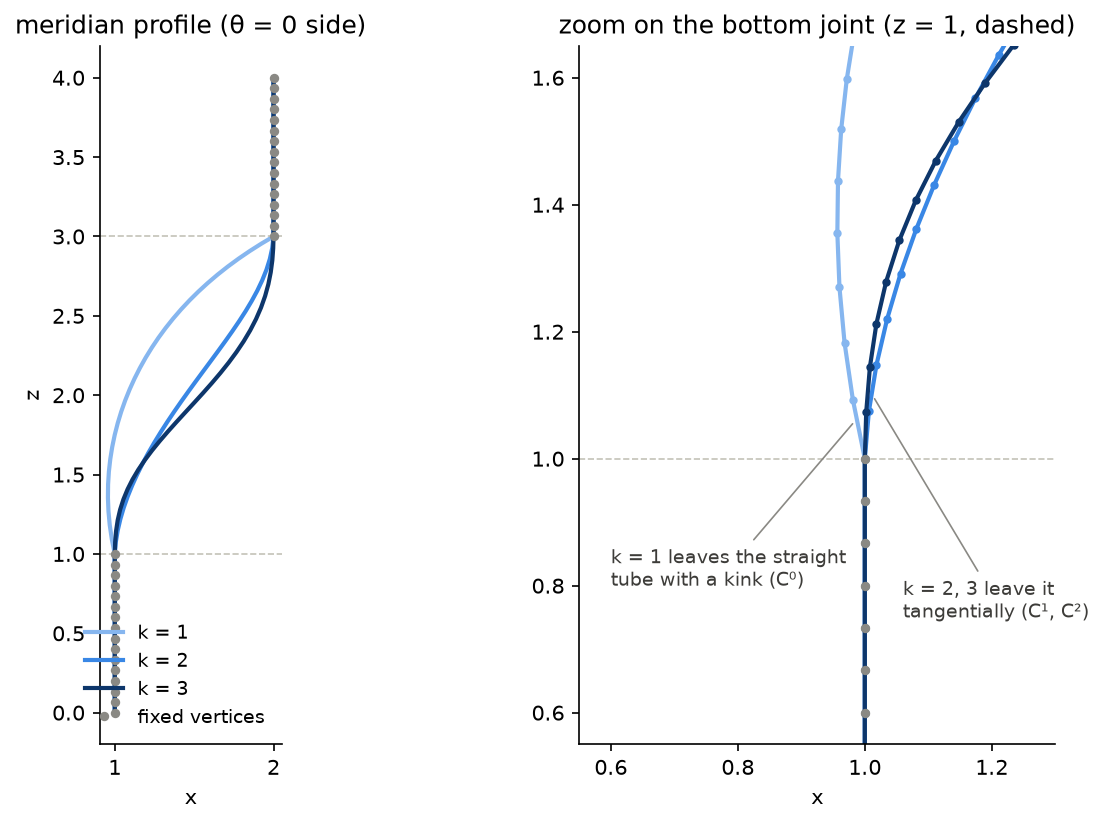
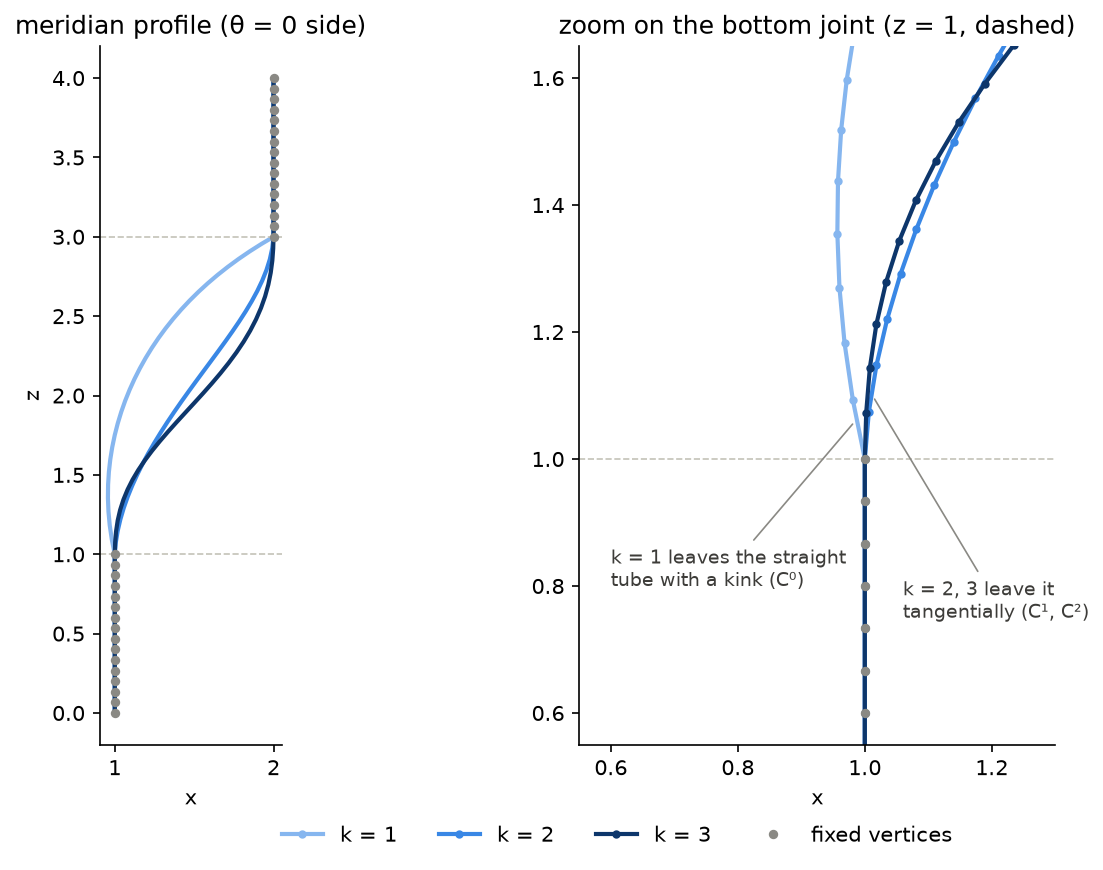
Fix the profile legend; add Fig. 4.8's two-pipe elbow example (#11)

diff --git a/examples/04_fairing.py b/examples/04_fairing.py
@@ -5,7 +5,7 @@ Run from the repository root:
     python examples/04_fairing.py
 
 Saves docs/img/09-sparsity.png, docs/img/10-membrane.png,
-docs/img/10-two-membranes.png, docs/img/11-tube-k123.png and docs/img/11-profile.png.
+docs/img/10-two-membranes.png, docs/img/11-tube-k123.png, docs/img/11-profile.png and docs/img/11-elbow-k123.png.
 """
 
 from pathlib import Path
@@ -179,7 +179,6 @@ def figure_profile():
     ax.set_ylabel("z")
     ax.set_aspect("equal")
     ax.set_title("meridian profile (θ = 0 side)")
-    ax.legend(frameon=False, loc="lower right", fontsize=9)
     zoom.set_xlim(0.55, 1.3)
     zoom.set_ylim(0.55, 1.65)
     zoom.set_aspect("equal")
@@ -189,9 +188,64 @@ def figure_profile():
                   fontsize=9, color="#3d3c39", arrowprops=arrow)
     zoom.annotate("k = 2, 3 leave it\ntangentially (C¹, C²)", xy=(1.012, 1.1), xytext=(1.06, 0.75),
                   fontsize=9, color="#3d3c39", arrowprops=arrow)
+    # one legend for both panels, below them: the left panel is too narrow to hold it
+    handles, labels = zoom.get_legend_handles_labels()
+    fig.legend(handles, labels, loc="lower center", ncol=4, frameon=False, fontsize=10,
+               bbox_to_anchor=(0.5, -0.04))
     fig.tight_layout()
     fig.savefig(IMG / "11-profile.png", dpi=150, bbox_inches="tight")
     print("saved", IMG / "11-profile.png")
+
+
+def pipe_elbow(n_theta=48, radius=1.0, bend_radius=2.5, pipe_length=2.0, spacing=0.1):
+    """Two pipes at 90 degrees, joined by a quarter-torus bend (the setting of Fig. 4.8).
+
+    A vertical pipe (axis z, z from -pipe_length to 0) and a horizontal pipe (axis x, at
+    height bend_radius) are fixed; the bend between them is free. The mesh reuses the tube's
+    connectivity (ring j, angle i -> vertex i + n_theta*j); only the ring positions change:
+    ring j has a center c_j and an in-plane direction e1_j that turns with the bend (e2 = y).
+    The free bend starts as an exact quarter torus, a clean surface for the frozen weights.
+    """
+    n_bend = int(round(bend_radius * np.pi / 2 / spacing))       # bend segments (≈ spacing long)
+    n_pipe = int(round(pipe_length / spacing))                    # segments per straight pipe
+    centers, e1 = [], []
+    for j in range(n_pipe + 1):                                   # vertical pipe, ends at z = 0
+        centers.append((0, 0, -pipe_length + j * spacing))
+        e1.append((1, 0, 0))
+    for m in range(1, n_bend):                                    # bend: angle phi from 0 to 90 deg
+        phi = m * (np.pi / 2) / n_bend
+        centers.append((bend_radius * (1 - np.cos(phi)), 0, bend_radius * np.sin(phi)))
+        e1.append((np.cos(phi), 0, -np.sin(phi)))                 # stays perpendicular to the axis
+    for j in range(n_pipe + 1):                                   # horizontal pipe, along +x
+        centers.append((bend_radius + j * spacing, 0, bend_radius))
+        e1.append((0, 0, -1))
+    centers, e1 = np.array(centers, float), np.array(e1, float)
+    _, F = mesh.tube(n_theta, len(centers))
+    theta = 2 * np.pi * np.arange(n_theta) / n_theta
+    circle = np.cos(theta)[None, :, None] * e1[:, None, :] + np.sin(theta)[None, :, None] * np.array([0, 1.0, 0])
+    V = (centers[:, None, :] + radius * circle).reshape(-1, 3)
+    ring = np.repeat(np.arange(len(centers)), n_theta)
+    free = (ring > n_pipe) & (ring < n_pipe + n_bend)
+    return V, F, free
+
+
+def figure_elbow():
+    """Issue #11 (extra): Fig. 4.8's setting, two pipes at 90 degrees, solved with k = 1, 2, 3."""
+    V, F, free = pipe_elbow()
+    meshes, scalars = [], []
+    for k in (1, 2, 3):
+        W = solve_fair(V, F, free, k)
+        H = mean_curvature(W, F)
+        H[~free] = np.nan                                         # fixed pipes in gray, as in the book
+        meshes.append((W, F))
+        scalars.append(H)
+    titles = ["k = 1: membrane (C⁰)", "k = 2: thin plate (C¹)", "k = 3: minimum variation (C²)"]
+    fig = viz.compare(meshes, titles, scalars, vmin=0, vmax=1.5, views=[(15, -90)] * 3,
+                      panel_size=(4.2, 4.4), edges=False)
+    fig.suptitle("Two pipes at 90° (fixed, gray) joined by a free bend, colored by mean curvature H\n"
+                 "(straight pipe: 0.5; ≥ 1.5 saturates). Compare with Fig. 4.8.", y=0.98)
+    fig.savefig(IMG / "11-elbow-k123.png", dpi=150, bbox_inches="tight")
+    print("saved", IMG / "11-elbow-k123.png")
 
 
 if __name__ == "__main__":
@@ -201,3 +255,4 @@ if __name__ == "__main__":
     figure_two_membranes()
     figure_tube_blend()
     figure_profile()
+    figure_elbow()

diff --git a/docs/phases/phase-4.md b/docs/phases/phase-4.md
@@ -175,6 +175,22 @@ Tests (`tests/test_fairing.py`): rings 1–3 around the free region end before t
 - *Left:* k = 1 bulges inward (toward x < 1) and meets the bands at an angle. k = 2 and 3 are S-shaped curves that leave each band tangentially; k = 3 is a bit straighter in the middle.
 - *Right, zoom on the bottom joint:* the k = 1 profile breaks away from the vertical line with a visible kink. k = 2 and k = 3 start out vertical, tangent to the fixed tube.
 
+**A second example: Fig. 4.8's two pipes at 90°.** `pipe_elbow` in `examples/04_fairing.py` builds the book's setting. A vertical pipe and a horizontal pipe, both fixed, are joined by a free bend. The mesh reuses the tube's connectivity; only the ring positions change. Each ring has a center on the bend's axis and an in-plane direction that turns with the bend, so the triangles stay consistently oriented. The free bend starts as an exact quarter torus (bend radius 2.5, pipe radius 1), a clean surface for the frozen weights (#10). This helper lives in the example script, not in the library.
+
+![Two pipes at 90 degrees, k = 1, 2, 3](../img/11-elbow-k123.png)
+
+`docs/img/11-elbow-k123.png`: fixed pipes in gray (as in the book), the free bend colored by mean curvature. The three results reproduce Fig. 4.8.
+- **k = 1:** the membrane collapses into a thin, twisted funnel. Minimizing area pulls the bend's outer side inward, and the curvature concentrates in a dark band.
+- **k = 2:** a round elbow, joining both pipes tangentially.
+- **k = 3:** an even fuller, more evenly curved elbow.
+
+On the outer side of the bend (θ = π), the joint angle at the vertical pipe, at spacings 0.1 / 0.05 / 0.025, is:
+- k = 1: **71.5° / 71.9° / 72.1°**, a large kink that does not shrink;
+- k = 2: 7.3° / 3.7° / 1.9° (∝ h, C¹);
+- k = 3: 1.04° / 0.29° / 0.08° (≈ ∝ h², C²).
+
+That is the same law as the straight tube, more pronounced because a 90° turn needs much more bending.
+
 **Pitfalls.**
 - *"Smooth" needs refinement to be tested.* At a single resolution, the k = 2 joint angle (6.9°) is not much larger than the turning inside the free region (4.7°), so one picture cannot separate "a small kink" from "a smooth bend". The C^(k−1) claim is about how the angle behaves as h → 0.
 - *Enough fixed rings.* k = 3 needs three fixed rings beyond the free region. If the bands were thinner, L³ would reach the tube's open ends and use the one-sided boundary Laplacian (#5).
